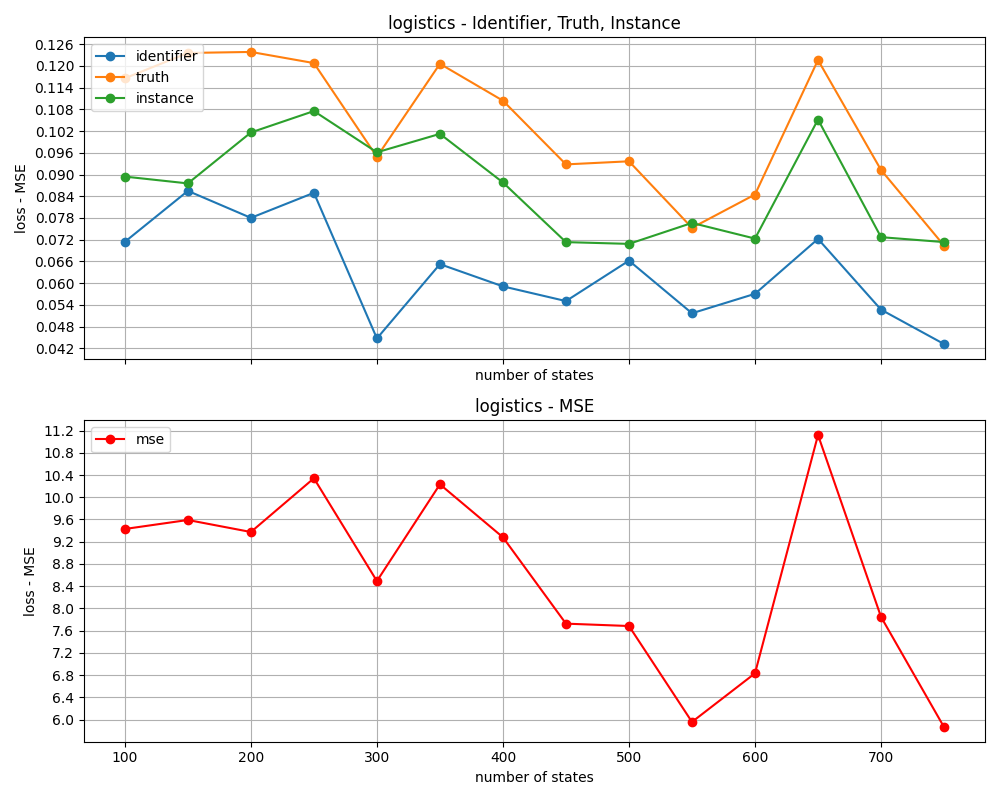
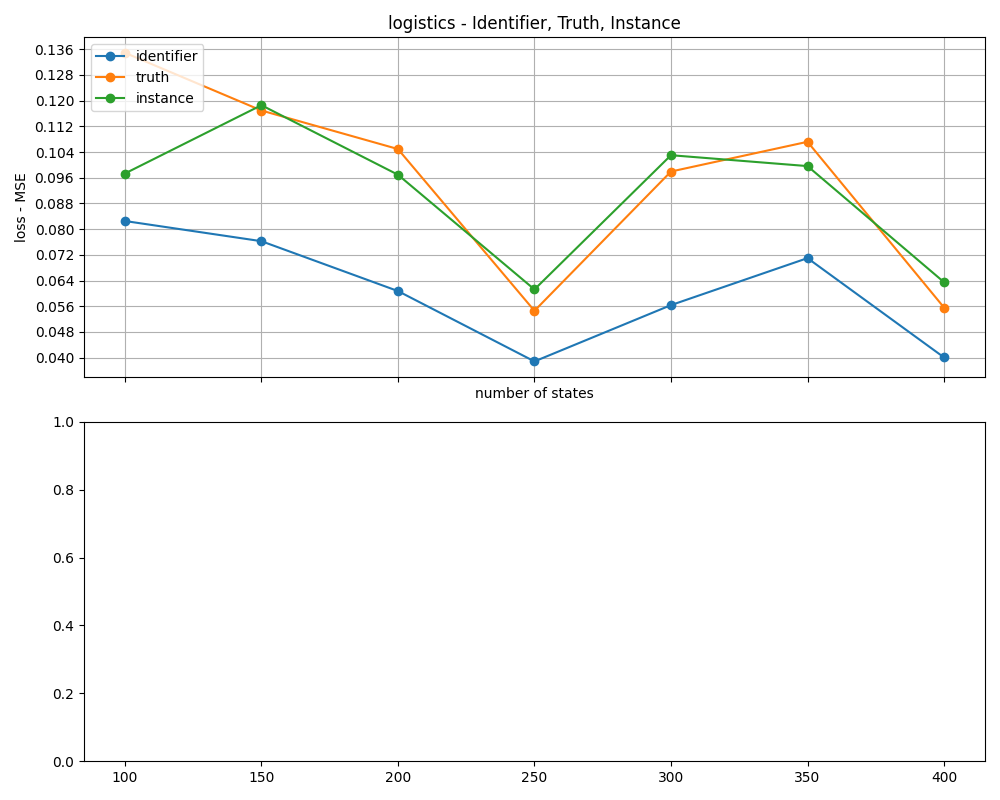
s

diff --git a/Network.py b/Network.py
@@ -121,13 +121,14 @@ def train_and_evaluate_domains(domains: list[Domain_sim], trace_length=20, prob=
     default_iter = 10
     iterations = iterations if iterations is not None else default_iter
     # Prepare metric history per domain
-    metric_history = {domain.name: {'identifier': [], 'truth': [], 'instance': [], 'mse': []} for domain in domains}
-    for m in range(1,15):
+    metric_history = {domain.name: {'identifier': [], 'truth': [], 'instance': [], 'MSE': []} for domain in domains}
+    for m in range(1,8):
+        print(f"\nstarting itertaion {m}\n")
         traces = []
         batch_size = devider(m)
         trace = None
         for domain in domains:
-            for _ in tqdm(range(m*2)):
+            for _ in range(m*2):
                 while not trace or np.shape(trace)[0] != 19:
                     trace = asyncio.run(domain.Generate_trace(10))
                 traces.append(trace)
@@ -135,7 +136,7 @@ def train_and_evaluate_domains(domains: list[Domain_sim], trace_length=20, prob=
         np.random.shuffle(traces)
         traces = traces.reshape(traces.shape[0] // batch_size, batch_size, *traces.shape[1:])
         model = att_only.Att_PAM(output_dim=domains[0].token_size, embed_dim=512, input_dim=domains[0].token_size, head_number=8)
-        model.train(traces, lr=0.00001, iterations=iterations, delta= 0.0001)
+        model.train(traces, lr=0.00001, iterations=iterations, delta= 0.0001/m)
 
         summary = []
         for domain in domains:
@@ -165,7 +166,7 @@ def train_and_evaluate_domains(domains: list[Domain_sim], trace_length=20, prob=
             metric_history[domain.name]['identifier'].append(identifier/N if N else 0)
             metric_history[domain.name]['truth'].append(truth/N if N else 0)
             metric_history[domain.name]['instance'].append(instance/N if N else 0)
-            metric_history[domain.name]['mse'].append(mse/N if N else 0)
+            metric_history[domain.name]['MSE'].append(mse/N if N else 0)
             summary.append((domain.name ,identifier/N,truth/N, instance/N, mse/N))
 
     with open(output_file, "w") as f:
@@ -173,8 +174,8 @@ def train_and_evaluate_domains(domains: list[Domain_sim], trace_length=20, prob=
         f.write(f"- Number of traces used for training: {len(traces)}\n")
         f.write(f"- Length of each trace: 20\n")
         f.write(f"- Number of training iterations: {iterations}\n\n")
-        for domain_name, identifier, truth, instance , mse in summary:
-            f.write(f"Domain: {domain_name}, distences - identifier: {identifier}, truth: {truth}, instance: {instance}, mse\n")
+        for domain_name, identifier, truth, instance , MSE in summary:
+            f.write(f"Domain: {domain_name}, distences - identifier: {identifier}, truth: {truth}, instance: {instance}\n")
 
     import os
     # Plot mse and other metrics as separate subplots in the same figure for each domain
@@ -194,13 +195,13 @@ def train_and_evaluate_domains(domains: list[Domain_sim], trace_length=20, prob=
         from matplotlib.ticker import MaxNLocator
         ax1.yaxis.set_major_locator(MaxNLocator(nbins=15))
 
-        ax2.plot(m_range, metrics['mse'], marker='o', color='red', label='mse')
-        ax2.set_xlabel("number of states")
-        ax2.set_ylabel("loss - MSE")
-        ax2.legend(loc='upper left')
-        ax2.set_title(f"{domain_name} - MSE")
-        ax2.grid(True)
-        ax2.yaxis.set_major_locator(MaxNLocator(nbins=15))
+        # ax2.plot(m_range, metrics['mse'], marker='o', color='red', label='mse')
+        # ax2.set_xlabel("number of states")
+        # ax2.set_ylabel("loss - MSE")
+        # ax2.legend(loc='upper left')
+        # ax2.set_title(f"{domain_name} - MSE")
+        # ax2.grid(True)
+        # ax2.yaxis.set_major_locator(MaxNLocator(nbins=15))
 
         plt.tight_layout()
         plt.savefig(os.path.join("graphs", f"solo_{domain_name}_metrics_subplots.png"))
@@ -237,6 +238,7 @@ if True:
 else:
     model = att_only.Att_PAM(output_dim=logistics.token_size, embed_dim=512, input_dim=logistics.token_size, head_number=8)
     model.load_state_dict(torch.load("./Parameters/pddl_4_domains_trained.pth"))
+
 # test_attention_model(domain=blocksworld, model=model, prob=False)
 
 # test_attention_model(domain=logistics, model=model, prob=False)